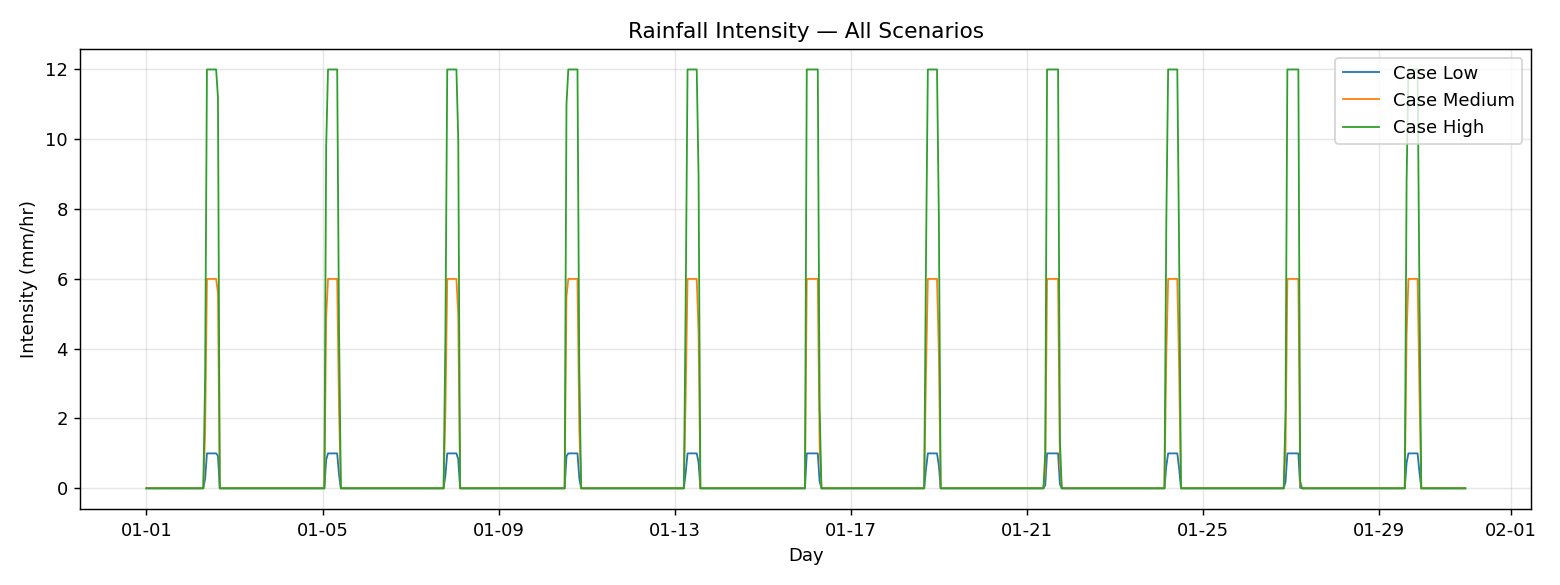
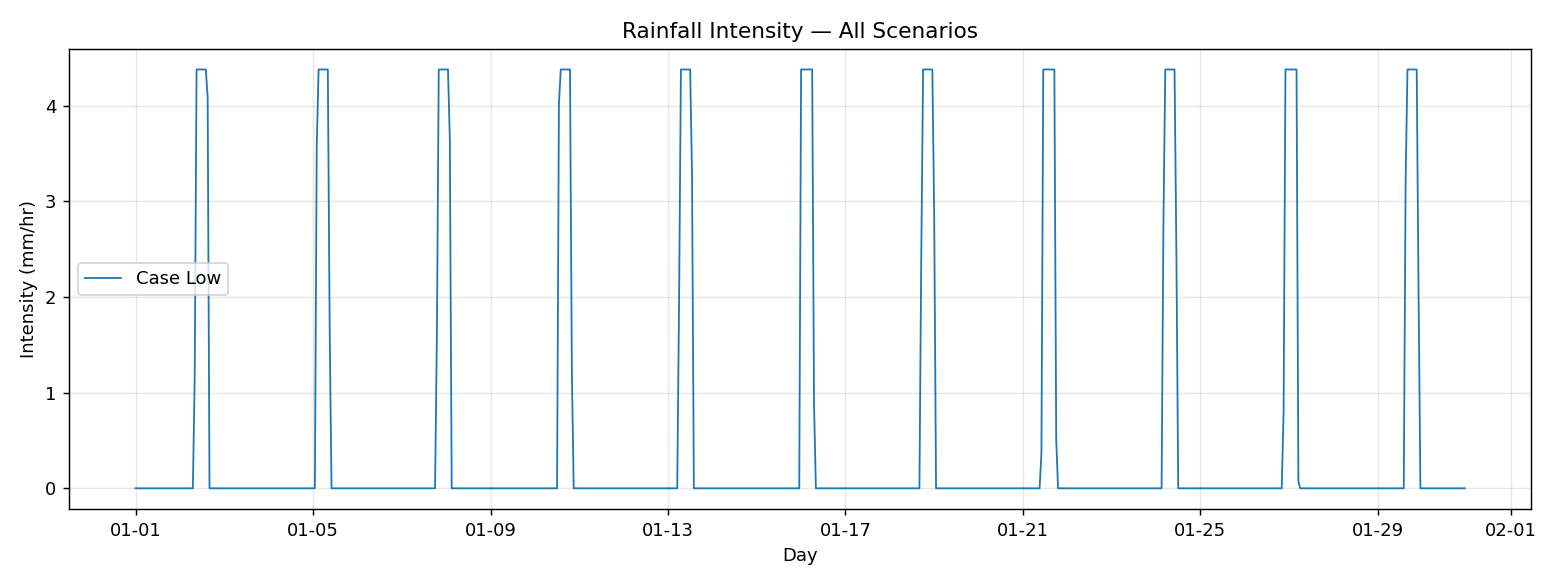
porosity graph added

diff --git a/sensitivity_testing/files-2/oft_parameter_sweep.py b/sensitivity_testing/files-2/oft_parameter_sweep.py
@@ -47,9 +47,9 @@ if __name__ == "__main__":
  
     if RUN_SINGLE_PARAM_SWEEP:
 
-        SWEEP_PARAM = "S"  # the run_realization() keyword argument to vary
+        SWEEP_PARAM = "truck_num_ini"  # the run_realization() keyword argument to vary
     #may or may not have to update code with type as int (truck_num for example)
-        SWEEP_VALUES = np.linspace(0.05, 0.13, 4)  # the values to test it at
+        SWEEP_VALUES = [5, 8, 10]  # the values to test it at
 
         PARAM_SWEEP = [
          {"name": f"{SWEEP_PARAM}={v:g}", SWEEP_PARAM: v}
@@ -381,27 +381,99 @@ if __name__ == "__main__":
             plot_metric_sweep(lambda res: res["road_shear_cum_arr"][-1],
                                ylabel="Fraction of road exceeding $\\tau_c$ [-]",
                                title=f"Shear-stress exceedance vs. {SWEEP_PARAM}")
+            
             # peak shear stress reached at any point during the run
             plot_metric_sweep(lambda res: np.max(res["avg_shear_stress_road"]),
                                 ylabel="Peak mean shear stress, full road [Pa]",
                                 title=f"Peak mean shear stress vs. {SWEEP_PARAM}")
+            
             plot_metric_sweep(lambda res: res["avg_n_road"][-1],
                                ylabel="Mean roughness, full road [-]",
                                title=f"Roughness vs. {SWEEP_PARAM}")
 
-            plot_metric_sweep(lambda res: res["fs_avg_road"][-1],
-                               ylabel="Mean shear-stress partitioning fs, full road [-]",
+            plot_metric_sweep(lambda res: res["fs_avg_ruts"][-1],
+                               ylabel="Mean shear-stress partitioning fs, ruts only [-]",
                                title=f"Shear partitioning vs. {SWEEP_PARAM}")
 
             # ------ TPE-specific ------
             plot_metric_sweep(lambda res: res["tpe_load_ruts"][-1],
                                ylabel="Cumulative TPE load to ruts [kg]",
                                title=f"TPE sediment load to ruts vs. {SWEEP_PARAM}")
+            
+            # ------ porosity decay time series, ALL settings and ALL seeds on one figure ------
+            fig, ax = plt.subplots(figsize=(8, 5))
+            cmap = plt.get_cmap("viridis")
+            for i, name in enumerate(sweep_labels):
+                runs = sweep_results[name]
+                color = cmap(i / max(len(sweep_labels) - 1, 1))
+                for seed_idx, res in enumerate(runs):
+                    ax.plot(range(res["run_duration"]), res["phi_c_a_ruts_min"], color=color,
+                            alpha=0.4, linewidth=0.8,
+                            label=name if seed_idx == 0 else None)  # one legend entry per setting
+            ax.axhline(0.31, color="black", linestyle="--", linewidth=1, label="phi_limit = 0.31")
+            ax.set_xlabel("Day")
+            ax.set_ylabel("Min Active-layer coarse porosity in ruts [-]")
+            ax.set_title("Porosity decay vs. day, all settings and seeds")
+            ax.legend(fontsize=7, ncol=2)
+            plt.tight_layout()
+            plt.show()
+
+            fig, ax = plt.subplots(figsize=(8, 5))
+            cmap = plt.get_cmap("viridis")
+            for i, name in enumerate(sweep_labels):
+                runs = sweep_results[name]
+                color = cmap(i / max(len(sweep_labels) - 1, 1))
+                for seed_idx, res in enumerate(runs):
+                    ax.plot(range(res["run_duration"]), res["phi_c_s_ruts_min"], color=color,
+                            alpha=0.4, linewidth=0.8,
+                            label=name if seed_idx == 0 else None)  # one legend entry per setting
+            ax.axhline(0.31, color="black", linestyle="--", linewidth=1, label="phi_limit = 0.31")
+            ax.set_xlabel("Day")
+            ax.set_ylabel("Min Surfacing-layer coarse porosity in ruts [-]")
+            ax.set_title("Porosity decay vs. day, all settings and seeds")
+            ax.legend(fontsize=7, ncol=2)
+            plt.tight_layout()
+            plt.show()
+
+            fig, ax = plt.subplots(figsize=(8, 5))
+            cmap = plt.get_cmap("viridis")
+            for i, name in enumerate(sweep_labels):
+                runs = sweep_results[name]
+                color = cmap(i / max(len(sweep_labels) - 1, 1))
+                for seed_idx, res in enumerate(runs):
+                    ax.plot(range(res["run_duration"]), res["phi_f_s_ruts_min"], color=color,
+                            alpha=0.4, linewidth=0.8,
+                            label=name if seed_idx == 0 else None)  # one legend entry per setting
+            ax.axhline(0.31, color="black", linestyle="--", linewidth=1, label="phi_limit = 0.31")
+            ax.set_xlabel("Day")
+            ax.set_ylabel("Min Surfacing-layer fine porosity in ruts [-]")
+            ax.set_title("Porosity decay vs. day, all settings and seeds")
+            ax.legend(fontsize=7, ncol=2)
+            plt.tight_layout()
+            plt.show()
+
+            fig, ax = plt.subplots(figsize=(8, 5))
+            cmap = plt.get_cmap("viridis")
+            for i, name in enumerate(sweep_labels):
+                runs = sweep_results[name]
+                color = cmap(i / max(len(sweep_labels) - 1, 1))
+                for seed_idx, res in enumerate(runs):
+                    ax.plot(range(res["run_duration"]), res["phi_f_a_ruts_min"], color=color,
+                            alpha=0.4, linewidth=0.8,
+                            label=name if seed_idx == 0 else None)  # one legend entry per setting
+            ax.axhline(0.31, color="black", linestyle="--", linewidth=1, label="phi_limit = 0.31")
+            ax.set_xlabel("Day")
+            ax.set_ylabel("Min Active-layer fine porosity in ruts [-]")
+            ax.set_title("Porosity decay vs. day, all settings and seeds")
+            ax.legend(fontsize=7, ncol=2)
+            plt.tight_layout()
+            plt.show()
+
         else:
             print("\nSkipped additional metric sweeps: this PARAM_SWEEP isn't a single "
                   "SWEEP_PARAM range (e.g. you're using the 'several different "
                   "parameters at once' style), so there's no single x-axis to plot against.")
-        
+                  
     if RUN_COMPRESSION_THRESHOLD_GRID:
         # =========================================================================
         # TWO PARAMETER SWEEP

diff --git a/sensitivity_testing/files-2/oft_model_core.py b/sensitivity_testing/files-2/oft_model_core.py
@@ -60,7 +60,7 @@ rain_gauge = rain_gauge_list[6]
 # ------ site parameters (read once, not per run) ------
 parameters = pd.read_csv(os.path.join(PROJECT_ROOT, "input/parameters_WY2024.csv"))
 site_params = parameters.loc[parameters["Site Name"] == site_name].iloc[0]
-S = site_params["Road Gradient"] / 100
+S = 0.05
 porosity_c = 0.35
 porosity_f = 0.35
 
@@ -73,7 +73,7 @@ Ss_ini = 0.23   # surfacing depth in m
 Sb_ini = 2      # ballast depth in m
 
 # ------ truck passes ------
-truck_num_ini = 24
+truck_num_ini = 2
 
 # ------ roughness values ------
 n_c = 0.05
@@ -153,7 +153,7 @@ def run_realization(seed, run_duration=run_duration_default,
                      F_af0=0.50, F_sf0=1, F_bc0=0.5, scat_loss=8e-4, compression=7e-4,
                      tau_c_road=tau_c_road, n_c=n_c, n_f=n_f, d50_road=d50_road,
                      rain_zero_prob=0.6, rain_lam=7, rain_duration_mean=8,
-                     historical_csv_path="/Users/goddamnit/github/roads_model/input/Case Medium.csv"):
+                     historical_csv_path="/Users/goddamnit/github/roads_model/input/Case Low.csv"):
     """
     Run one full realization of the road erosion model.
 
@@ -366,6 +366,15 @@ def run_realization(seed, run_duration=run_duration_default,
     ss_arr = np.zeros(run_duration)
     sb_arr = np.zeros(run_duration)
 
+    phi_c_a_ruts = np.zeros(run_duration)
+    phi_f_a_ruts = np.zeros(run_duration)
+    phi_c_s_ruts = np.zeros(run_duration)
+    phi_f_s_ruts = np.zeros(run_duration)
+    phi_c_a_ruts_min = np.zeros(run_duration)   # worst-case (most compacted) node anywhere on the road
+    phi_c_s_ruts_min = np.zeros(run_duration) 
+    phi_f_a_ruts_min = np.zeros(run_duration)
+    phi_f_s_ruts_min = np.zeros(run_duration)
+
     Ma = np.zeros(run_duration)
     Maf = np.zeros(run_duration)
     Mac = np.zeros(run_duration)
@@ -447,6 +456,15 @@ def run_realization(seed, run_duration=run_duration_default,
 
         tpe.run_one_step()
         truck_num += tpe.truck_num
+
+        phi_c_a_ruts[i] = np.nanmean(mg.at_node['phi_c_a'][ruts])
+        phi_f_a_ruts[i] = np.nanmean(mg.at_node['phi_f_a'][ruts])
+        phi_c_s_ruts[i] = np.nanmean(mg.at_node['phi_c_s'][ruts])
+        phi_f_s_ruts[i] = np.nanmean(mg.at_node['phi_f_s'][ruts])
+        phi_c_a_ruts_min[i] = np.nanmin(mg.at_node['phi_c_a'][ruts])
+        phi_c_s_ruts_min[i] = np.nanmin(mg.at_node['phi_c_s'][ruts])
+        phi_f_a_ruts_min[i] = np.nanmin(mg.at_node['phi_f_a'][ruts])
+        phi_f_s_ruts_min[i] = np.nanmin(mg.at_node['phi_f_s'][ruts])
 
         intensity = intensity_run_dur[i]  # use the i-th day's intensity
         dt_day = dt[i]  # use the i-th day's time step
@@ -781,6 +799,12 @@ def run_realization(seed, run_duration=run_duration_default,
         "rain_zero_prob": rain_zero_prob, "rain_lam": rain_lam,
         "rain_duration_mean": rain_duration_mean,
         "historical_csv_path": historical_csv_path,
+        "phi_c_a_ruts": phi_c_a_ruts, "phi_f_a_ruts": phi_f_a_ruts,
+        "phi_c_s_ruts": phi_c_s_ruts, "phi_f_s_ruts": phi_f_s_ruts,
+        "phi_c_a_ruts_min": phi_c_a_ruts_min,
+        "phi_f_a_ruts_min": phi_f_a_ruts_min,
+        "phi_c_s_ruts_min": phi_c_s_ruts_min,
+        "phi_f_s_ruts_min": phi_f_s_ruts_min,
     }
 
     if return_grid:

diff --git a/sensitivity_testing/files-2/rainfall_intensity_generator.py b/sensitivity_testing/files-2/rainfall_intensity_generator.py
@@ -21,9 +21,9 @@ OUTPUT_NAME = "rainfall_scenario"     # base filename for the plot
 # num_storms(V)               number of storm events, evenly spaced across the
 #                             full TOTAL_PERIOD_DAYS
 SCENARIOS = [
-    {"name": "Case Low", "intensity_mm_hr": 1, "intensity_step_mm_hr": 0, "storm_duration_days": 0.3, "num_storms": 11},
-     {"name": "Case Medium", "intensity_mm_hr": 6, "intensity_step_mm_hr": 0, "storm_duration_days": 0.3, "num_storms": 11},
-     {"name": "Case High", "intensity_mm_hr": 12, "intensity_step_mm_hr": 0, "storm_duration_days": 0.3, "num_storms": 11},
+    {"name": "Case Low", "intensity_mm_hr": 4.38, "intensity_step_mm_hr": 0, "storm_duration_days": 0.3, "num_storms": 11},
+     #{"name": "Case Medium", "intensity_mm_hr": 6, "intensity_step_mm_hr": 0, "storm_duration_days": 0.3, "num_storms": 11},
+     #{"name": "Case High", "intensity_mm_hr": 12, "intensity_step_mm_hr": 0, "storm_duration_days": 0.3, "num_storms": 11},
 ]
 
 #%%
@@ -110,7 +110,7 @@ def solve_intensity_from_depth(total_depth_mm, num_storms, storm_duration_hours)
     return total_depth_mm / (num_storms * storm_duration_hours)
 
 # Low case
-intensity_low = solve_intensity_from_depth(40.64, num_storms=10, storm_duration_hours=8)
+intensity_low = solve_intensity_from_depth(350, num_storms=10, storm_duration_hours=8)
 # High case
 intensity_high = solve_intensity_from_depth(947.45, num_storms=10, storm_duration_hours=8)
 
